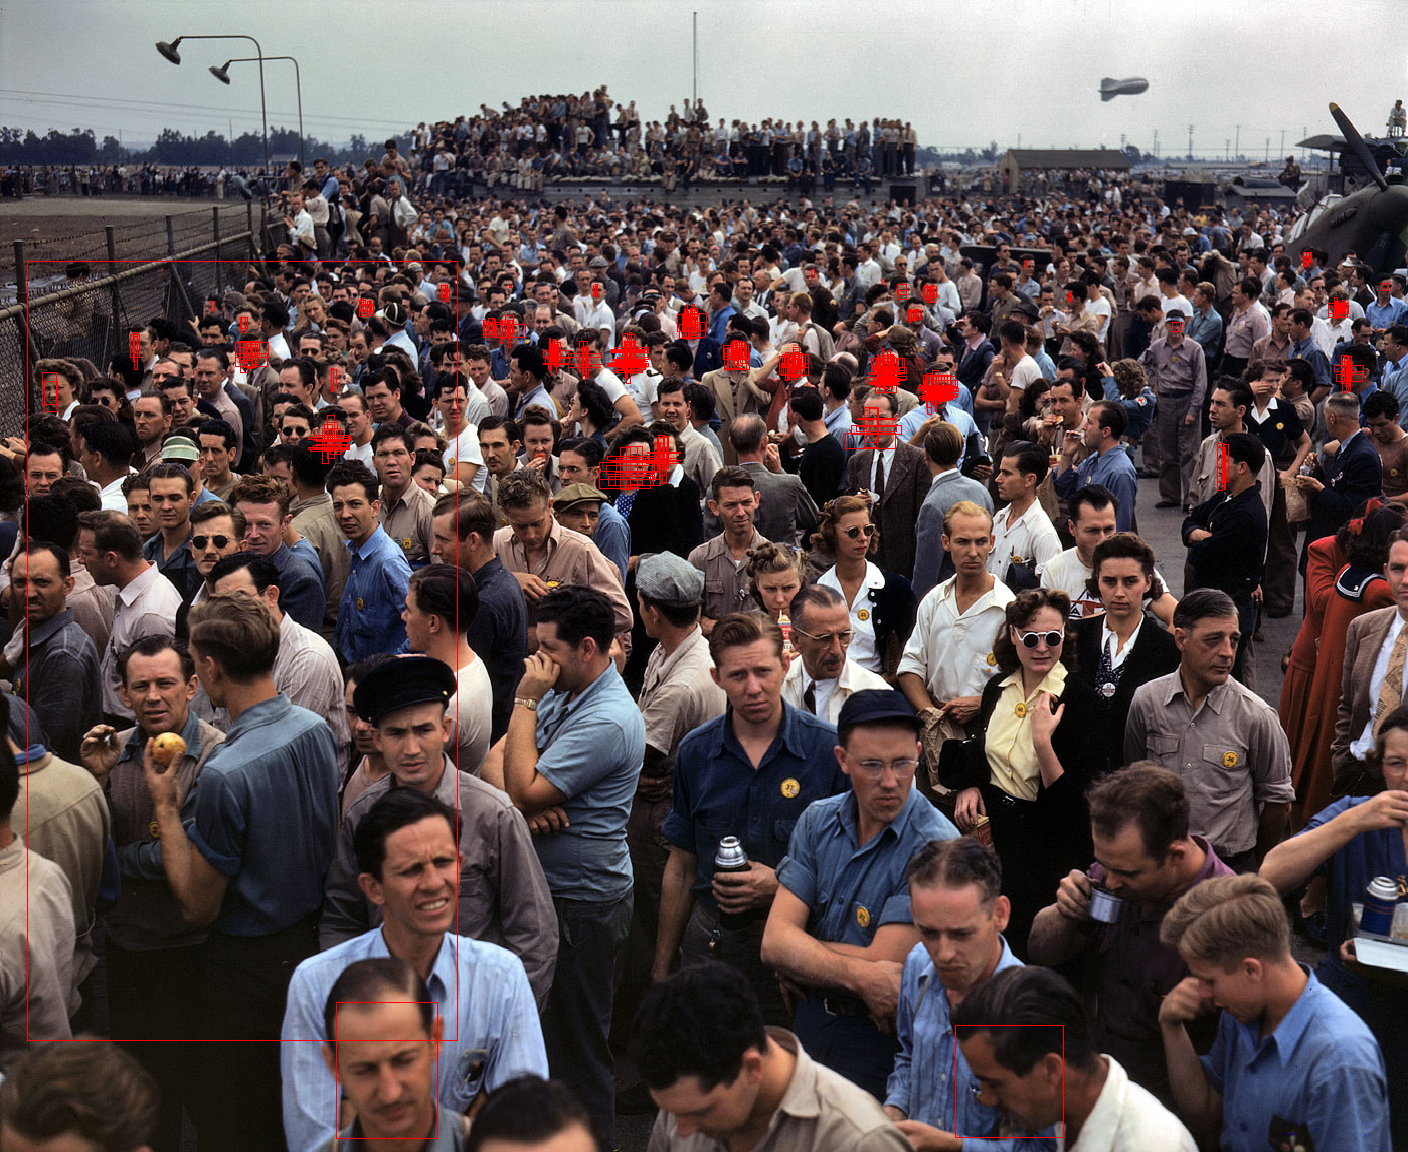
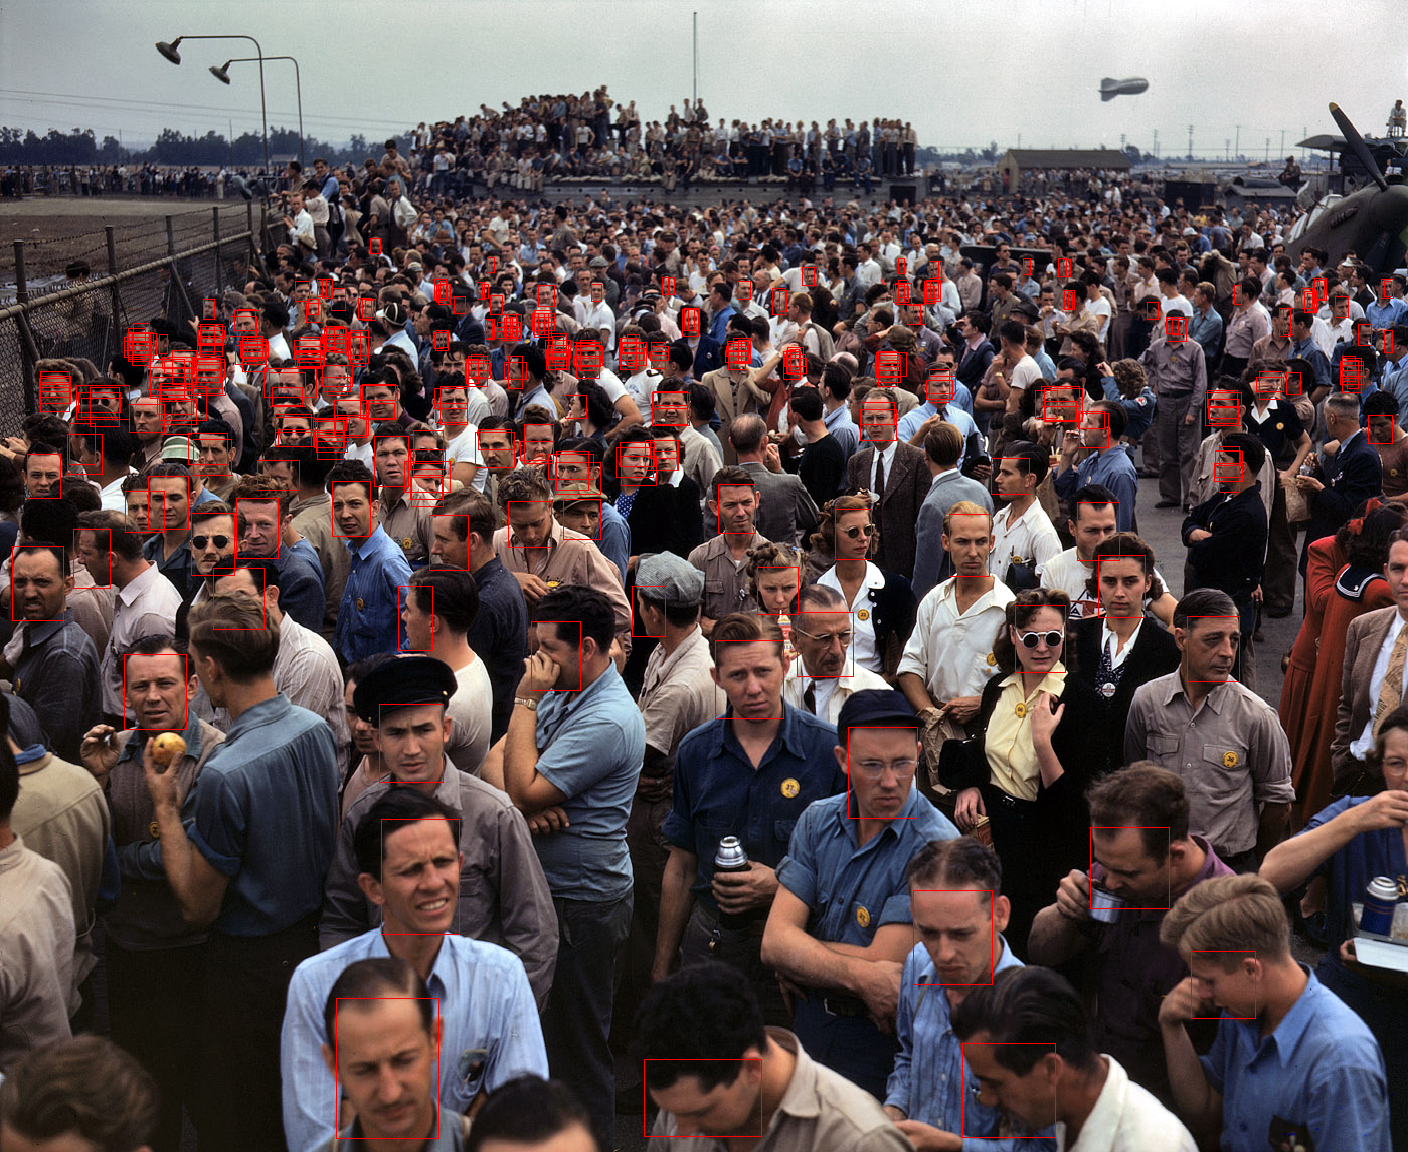
fixed 1.1

diff --git a/network_v_1_1.py b/network_v_1_1.py
@@ -1,11 +1,13 @@
-#cross entropy, divide by num positive
+#cross entropy divide by pos
 
 import torch
 import torch.nn as nn
 import torchvision
 from torchvision import models
+import torch.autograd as autograd
 from torch.autograd import Variable
 from torch.nn import Parameter
+import torch.nn.functional as F
 import numpy as np
 
 from util_detection import jaccard
@@ -13,12 +15,14 @@ from util_detection import jaccard
 class ResidualBlock(nn.Module):
     def __init__(self, channels, expansion = 4, cardinality = 1):
         super(ResidualBlock, self).__init__()
+
         self.block = nn.Sequential(nn.Conv2d(channels*expansion, channels, kernel_size=1, bias=False),
                                    nn.BatchNorm2d(channels),
                                    nn.Conv2d(channels, channels, kernel_size=3, padding=1, groups = cardinality, bias=False),
                                    nn.BatchNorm2d(channels),
                                    nn.Conv2d(channels, channels*expansion, kernel_size=1, bias=False),
                                    nn.BatchNorm2d(channels*expansion))
+        
         self.relu = nn.ReLU(inplace = True)
         
         
@@ -29,37 +33,6 @@ class ResidualBlock(nn.Module):
         out = self.relu(out+res)
         
         return out
-    
-
-def make_anchors_and_bbox(offsets, classes, anchors_hw, height, width):
-    #offsets shape [batch_size, 4A, S, S]
-    #anchors shape [A, 2]
-    #classes shape [batch_size, (K+1)A, S, S]
-    R, C, H, W = list(classes.size())
-    A, _ = list(anchors_hw.size())
-
-    #RESHAPE OFFSETS
-    offsets = offsets.view(R,-1, A*H*W).permute(0,2,1)
-            
-    #RESHAPE CLASSES
-    classes = classes.view(R,-1, A*H*W).permute(0,2,1)
-            
-    #EXPAND CENTER COORDS
-    x_coords = ((torch.arange(W).cuda()+0.5)/W*width).expand(H, W)
-    y_coords = ((torch.arange(H).cuda()+0.5)/H*height).expand(W, H).t()
-    coord_grid = torch.stack((x_coords, y_coords), dim = 0)
-    coords = coord_grid.view(2,-1).t().expand(A, -1, -1)
-    anch = anchors_hw.unsqueeze(1).expand(-1,H*W,-1)
-
-    anchors_min = coords - anch/2
-    anchors_max = anchors_min + anch
-    anchors_min = anchors_min.view(-1,2)
-    anchors_max = anchors_max.view(-1,2)
-            
-    anchors = Variable(torch.cat((anchors_min, anchors_max), dim = 1))
-    boxes = offsets + anchors
-
-    return boxes, classes, anchors        
 
 
 class PredictionHead(nn.Module):
@@ -102,14 +75,12 @@ class RegressionHead(nn.Module):
 class ClassificationHead(nn.Module):
     def __init__(self):
         super(ClassificationHead, self).__init__()
-        K = 1
         A = 6
         pi = 0.001
-        bias = np.log(K*(1-pi)/pi)
-        self.prior = Parameter(torch.cuda.FloatTensor([[bias]]).expand(A, -1, -1))
+        bias = -np.log((1-pi)/pi)
+        self.prior = Parameter(torch.FloatTensor([[bias]]).expand(A, -1, -1)).contiguous()
         
-        self.background = nn.Conv2d(256,   A, kernel_size=3, stride=1, padding=1, bias = False)
-        self.foreground = nn.Conv2d(256, A*K, kernel_size=3, stride=1, padding=1, bias = True)
+        self.conf_predictions = nn.Conv2d(256,   A, kernel_size=3, stride=1, padding=1, bias = False)
 
         channels = 64
         expansion = 4
@@ -126,9 +97,7 @@ class ClassificationHead(nn.Module):
     def forward(self, x):
         #x shape [batch_size, 256, H, W]
         x = self.residual(x)
-        background = self.background(x) + self.prior
-        foreground = self.foreground(x)
-        return torch.cat((background, foreground), dim=1)
+        return self.conf_predictions(x) + self.prior
     
 
 class FaceNet(nn.Module):
@@ -154,26 +123,29 @@ class FaceNet(nn.Module):
         self.conv5 = nn.Sequential(*modules_conv5)
         self.bottleneck_conv5 = nn.Conv2d(512, 256, kernel_size=1, stride=1, padding=0, bias = True)
 
-        self.conv6 = nn.Sequential(*[ResidualBlock(128, expansion=4) for _ in range(2)])
+        self.conv6 = nn.Sequential(nn.Conv2d(512, 512, kernel_size=1, stride=2, padding=0, bias = True),
+                                   *[ResidualBlock(128, expansion=4) for _ in range(2)])
         self.bottleneck_conv6 = nn.Conv2d(512, 256, kernel_size=1, stride=1, padding=0, bias = True)
 
         self.prediction_head =  PredictionHead()
 
-        self.anchors_hw2 = torch.Tensor([[16, 16],  [16, 16*2],
+        self.anchors_wh2 = torch.Tensor([[16, 16],  [16, 16*2],
                                          [20, 20],  [20, 20*2],
                                          [25, 25],  [25, 25*2]]).cuda()
-        self.anchors_hw3 = torch.Tensor([[32, 32],  [32, 32*2],
+        self.anchors_wh3 = torch.Tensor([[32, 32],  [32, 32*2],
                                          [40, 40],  [40, 40*2],
                                          [51, 51],  [51, 51*2]]).cuda()
-        self.anchors_hw4 = torch.Tensor([[64, 64],  [64, 64*2],
+        self.anchors_wh4 = torch.Tensor([[64, 64],  [64, 64*2],
                                          [81, 81],  [81, 81*2],
                                          [102, 102],  [102, 102*2]]).cuda()
-        self.anchors_hw5 = torch.Tensor([[128, 128],  [128, 128*2],
+        self.anchors_wh5 = torch.Tensor([[128, 128],  [128, 128*2],
                                          [161, 161],  [161, 161*2],
                                          [203, 203],  [203, 203*2]]).cuda()
-        self.anchors_hw6 = torch.Tensor([[256, 256],  [256, 256*2],
+        self.anchors_wh6 = torch.Tensor([[256, 256],  [256, 256*2],
                                          [322, 322],  [322, 322*2],
                                          [406, 406],  [406, 406*2]]).cuda()
+
+        self.upsampling = nn.Upsample(scale_factor=2, mode="bilinear")
         
     def forward(self, x, phase = "train"):
         _, _, height, width = x.size()
@@ -184,47 +156,86 @@ class FaceNet(nn.Module):
         conv4 = self.conv4(conv3)
         conv5 = self.conv5(conv4)
         conv6 = self.conv6(conv5)
-        
-        conv2 = self.bottleneck_conv2(conv2)
-        conv3 = self.bottleneck_conv3(conv3)
-        conv4 = self.bottleneck_conv4(conv4)
-        conv5 = self.bottleneck_conv5(conv5)
+
         conv6 = self.bottleneck_conv6(conv6)
+        conv5 = self.bottleneck_conv5(conv5)
+        conv4 = self.bottleneck_conv4(conv4)
+        conv3 = self.bottleneck_conv3(conv3)
+        conv2 = self.bottleneck_conv2(conv2)
 
         offsets6, classes6 = self.prediction_head(conv6)
-        boxes6, classes6, anchors6 = make_anchors_and_bbox(offsets6, classes6, self.anchors_hw6, height, width)
+        boxes6, classes6, anchors6 = make_anchors_and_bbox(offsets6, classes6, self.anchors_wh6, height, width)
         offsets5, classes5 = self.prediction_head(conv5)
-        boxes5, classes5, anchors5 = make_anchors_and_bbox(offsets5, classes5, self.anchors_hw5, height, width)
+        boxes5, classes5, anchors5 = make_anchors_and_bbox(offsets5, classes5, self.anchors_wh5, height, width)
         offsets4, classes4 = self.prediction_head(conv4)
-        boxes4, classes4, anchors4 = make_anchors_and_bbox(offsets4, classes4, self.anchors_hw4, height, width)
+        boxes4, classes4, anchors4 = make_anchors_and_bbox(offsets4, classes4, self.anchors_wh4, height, width)
         offsets3, classes3 = self.prediction_head(conv3)
-        boxes3, classes3, anchors3 = make_anchors_and_bbox(offsets3, classes3, self.anchors_hw3, height, width)
+        boxes3, classes3, anchors3 = make_anchors_and_bbox(offsets3, classes3, self.anchors_wh3, height, width)
         offsets2, classes2 = self.prediction_head(conv2)
-        boxes2, classes2, anchors2 = make_anchors_and_bbox(offsets2, classes2, self.anchors_hw2, height, width)
+        boxes2, classes2, anchors2 = make_anchors_and_bbox(offsets2, classes2, self.anchors_wh2, height, width)
 
         #concat all the predictions
         #boxes = [boxes3, boxes4, boxes5, boxes6, boxes7]
         #classes = [classes3, classes4, classes5, classes6, classes7]
         #anchors = [anchors3, anchors4, anchors5, anchors6, anchors7]
+        #boxes = [boxes2, boxes3, boxes4, boxes5, boxes6]
+        #classes =[classes2, classes3, classes4, classes5, classes6]
+        #anchors = [anchors2, anchors3, anchors4, anchors5, anchors6]
         boxes = torch.cat((boxes2, boxes3, boxes4, boxes5, boxes6), dim=1)
         classes =torch.cat((classes2, classes3, classes4, classes5, classes6), dim=1)
         anchors = torch.cat((anchors2, anchors3, anchors4, anchors5, anchors6), dim=0)
         return boxes, classes, anchors
 
+
+def make_anchors_and_bbox(offsets, classes, anchors_wh, height, width):
+    #offsets shape [batch_size, 4A, H, W]
+    #anchors shape [A, 2]
+    #classes shape [batch_size, A, H, W]
+    R, A, H, W = classes.size()
+
+    #RESHAPE OFFSETS
+    offsets = offsets.view(R, 4, A*H*W).permute(0,2,1)
+            
+    #RESHAPE CLASSES
+    classes = classes.view(R, A*H*W)
+            
+    #EXPAND CENTER COORDS
+    x_coords = ((torch.arange(W).cuda()+0.5)/W*width).expand(H, W)
+    y_coords = ((torch.arange(H).cuda()+0.5)/H*height).expand(W, H).t()
+    coord_grid = torch.stack((x_coords,y_coords), dim = 2) #H-dim, W-dim, (x,y)
+    coord_grid = coord_grid.expand(A,-1,-1,-1) #A-dim, H-dim, W-dim, (x,y)
+    coords = coord_grid.contiguous().view(-1, 2) #AHW, 2
+    anch = anchors_wh.unsqueeze(1).expand(-1,H*W,-1).contiguous().view(-1, 2) #AHW, 2
+
+    anchors_min = coords - anch/2
+    anchors_max = anchors_min + anch
+            
+    anchors = Variable(torch.cat((anchors_min, anchors_max), dim = 1), requires_grad = False)
+    boxes = offsets + anchors
+
+    return boxes, classes, anchors
+
+
 class ClassLoss(nn.Module):
     def __init__(self):
         super(ClassLoss, self).__init__()
-        self.cross_entropy = nn.CrossEntropyLoss(size_average=False, reduce=True)
+        self.sigmoid = nn.Sigmoid()
+        self.cross_entropy = nn.BCEWithLogitsLoss(size_average=False)
 
     def forward(self, classes, positive_idx):
-        num_pos = 1
         gather_pos = torch.zeros(classes.size(0), out=torch.LongTensor()).cuda()
+        num_pos = 1
         if len(positive_idx) != 0:
             positive_idx = positive_idx[:,0]
             num_pos = float(positive_idx.size(0))
             gather_pos.index_fill_(0, positive_idx.data, 1)
-        indices = Variable(gather_pos)
+        indices = Variable(gather_pos.float())
 
+        #eps = 0.0000000001
+        #gamma = 3
+        #pred = self.sigmoid(classes)
+        #loss = -indices*((1-pred)**gamma)*torch.log(pred+eps) - (1-indices)*(pred**gamma)*torch.log(1-pred+eps)
+        #loss = -indices*torch.log(pred+eps) - (1-indices)*torch.log(1-pred+eps)
         loss = self.cross_entropy(classes, indices) / num_pos
         return loss
 
@@ -250,6 +261,7 @@ class CoordLoss(nn.Module):
         else:
             return 0
 
+
 def match(threshhold, anchors, gts):
     pos = []
     idx = []
@@ -264,6 +276,7 @@ def match(threshhold, anchors, gts):
         return Variable(torch.cat(pos, dim=0)), Variable(torch.cat(idx, dim=0))
     else:
         return pos, idx
+    
     
 class Loss(nn.Module):
     def __init__(self):
@@ -290,3 +303,15 @@ class Loss(nn.Module):
         coord_loss = coord_loss / R
         total_loss = class_loss + coord_loss
         return total_loss, class_loss, coord_loss
+
+
+if __name__ == "__main__":
+    A = 6
+    height = 128
+    width = 128
+    offsets = Variable(torch.Tensor(3, 4*A, 32, 32))
+    classes = Variable(torch.Tensor(3, A, 32, 32))
+    anchors_wh2 = torch.Tensor([[16, 16],  [16, 16*2],
+                                [20, 20],  [20, 20*2],
+                                [25, 25],  [25, 25*2]])
+    result = make_anchors_and_bbox(offsets, classes, anchors_wh2, height, width)

diff --git a/create_eval_file.py b/create_eval_file.py
@@ -6,7 +6,7 @@ import torch
 import torch.nn as nn
 from torch.autograd import Variable
 
-from network_v_1_2 import FaceNet
+from network_v_1_5 import FaceNet
 from util_detection import nms
 from util_detection import process_draw
 
@@ -22,7 +22,7 @@ def path2cudaimage(filepath):
 
 
 def run_model_on_img(model, cuda_img, threshold, orig_width, orig_height, width, height):
-    boxes, classes, anchors = model(cuda_img)
+    boxes, classes, anchors = model(cuda_img, phase="test")
     boxes[:,:,0:1] = boxes[:,:,0:1]*orig_width/width
     boxes[:,:,1:2] = boxes[:,:,1:2]*orig_height/height
     boxes[:,:,2:3] = boxes[:,:,2:3]*orig_width/width
@@ -49,7 +49,7 @@ def create_eval_txt(processed_boxes, processed_conf, cat, image_path):
 def create_txts():
     model = FaceNet().cuda()
     #model.load_state_dict(torch.load("savedir/facenet_01_it70k.pth"))
-    model.load_state_dict(torch.load("savedir/facenet_v_1_2.pth"))
+    model.load_state_dict(torch.load("savedir/facenet_v_1_5.pth"))
     model.eval()
 
     if not os.path.exists("savedir/pred"):
@@ -59,7 +59,7 @@ def create_txts():
     for cat in os.listdir(im_dir):
         for image_path in os.listdir(im_dir + cat):
             cuda_img, orig_width, orig_height, width, height = path2cudaimage(im_dir + cat + "/"+ image_path)
-            processed_boxes, processed_conf = run_model_on_img(model, cuda_img, 0.35, orig_width, orig_height, width, height)
+            processed_boxes, processed_conf = run_model_on_img(model, cuda_img, 0.05, orig_width, orig_height, width, height)
             create_eval_txt(processed_boxes, processed_conf, cat, image_path)
 
 

diff --git a/demo_specific_image.py b/demo_specific_image.py
@@ -6,22 +6,22 @@ import torch.nn as nn
 from torch.autograd import Variable
 import numpy as np
 
-from network_v_1_2 import FaceNet
+from network_v_1_5 import FaceNet
 from data_feeder import DataFeeder
 from util_detection import process_draw
 from PIL import Image
 
 
 def test_model(images, model):
-    boxes, classes, anchors = model(images)
-    for i in [0.2, 0.4, 0.7, 0.9, 0.95]:
+    boxes, classes, anchors = model(images, phase="test")
+    for i in [0.05, 0.1, 0.2, 0.3, 0.4, 0.5, 0.6, 0.7]:
         im = process_draw(i, images, boxes, classes, use_nms = True, border_size = 1, softmax = False)
         im.save("results" + str(i) +".png")
 
 
 def main():
     model = FaceNet().cuda()
-    model.load_state_dict(torch.load("savedir/facenet_v_1_2.pth"))
+    model.load_state_dict(torch.load("savedir/facenet_v_1_5.pth"))
     model.eval()
 
     num_iterations = 1

diff --git a/train.py b/train.py
@@ -2,7 +2,7 @@ import torch
 import torch.optim as optim
 import matplotlib.pyplot as plt
 
-from network_v_1_6 import FaceNet, Loss
+from network_v_1_3 import FaceNet, Loss
 from data_feeder import DataFeeder
 from util_detection import process_draw
 from process_data import get_paths_train, get_paths_val
@@ -46,9 +46,9 @@ def main():
     train_data_feeder.start_queue_threads()
     val_data_feeder.start_queue_threads()
 
-    version = "01"
+    version = "02"
     model = FaceNet().cuda()
-    #model.load_state_dict(torch.load("savedir/facenet_v_1_4.pth"))
+    model.load_state_dict(torch.load("savedir/facenet_v_1_3.pth"))
     loss = Loss().cuda()
 
     optimizer = optim.SGD(model.parameters(), lr=0.0001,

diff --git a/grapher.py b/grapher.py
@@ -86,4 +86,4 @@ if __name__ == "__main__":
                   ["b", "g"],
                   ["train coord", "val coord"],
                   "Loss", "Iterations",
-                  list_ewmas = None)
+                  list_ewmas = [0.9, 0.9])
